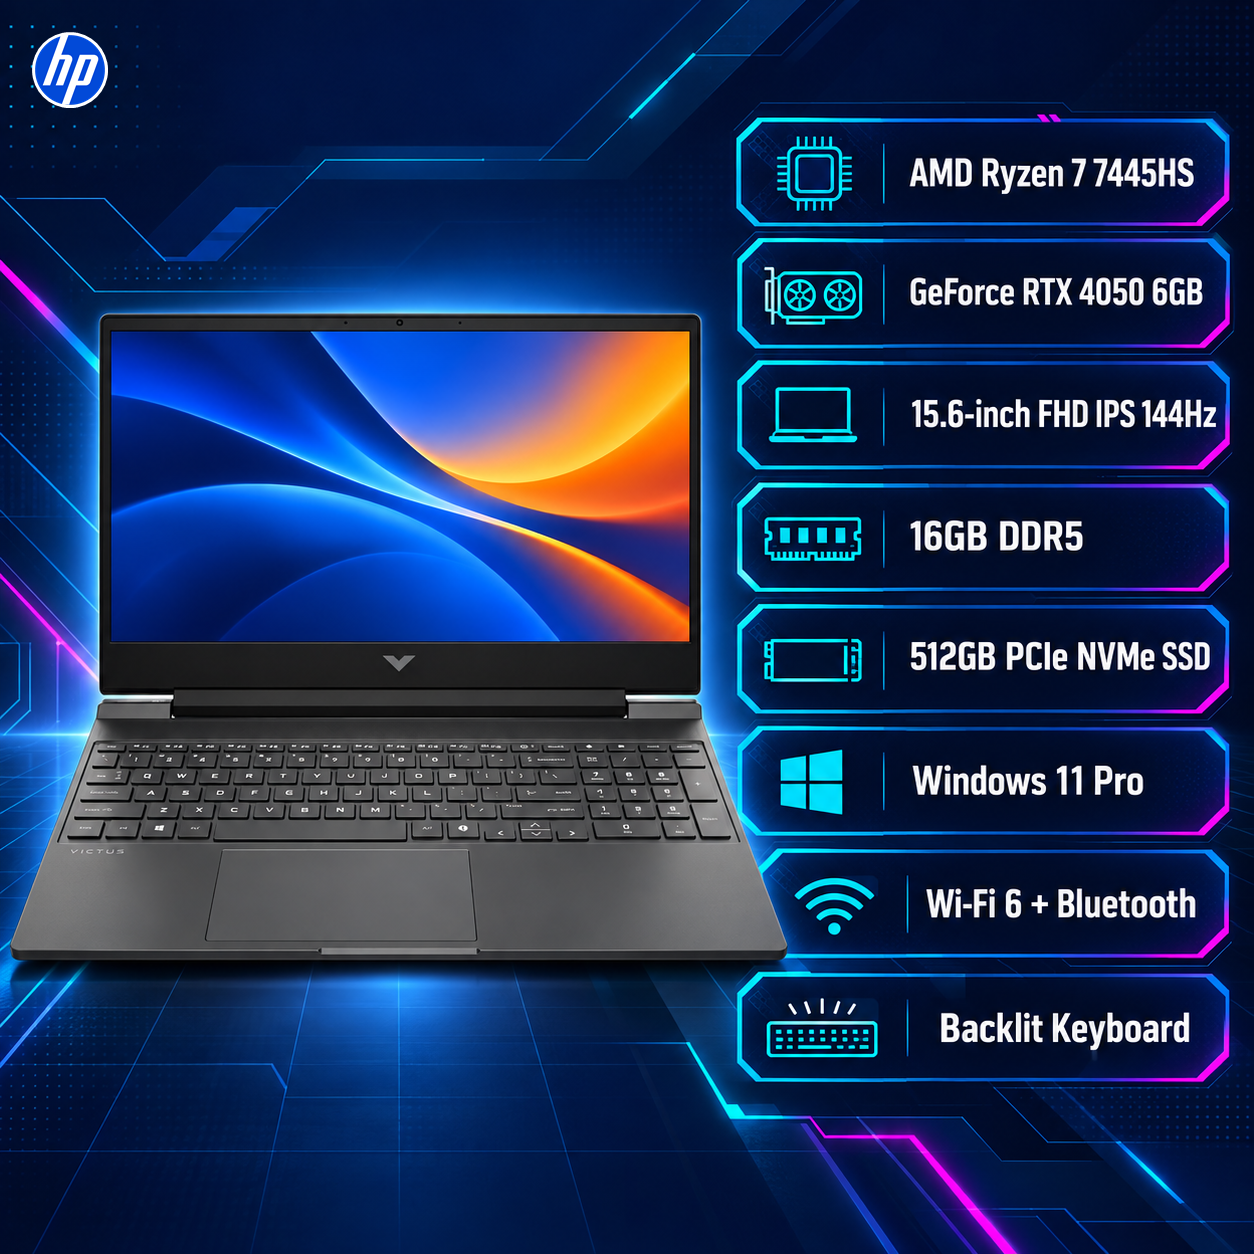
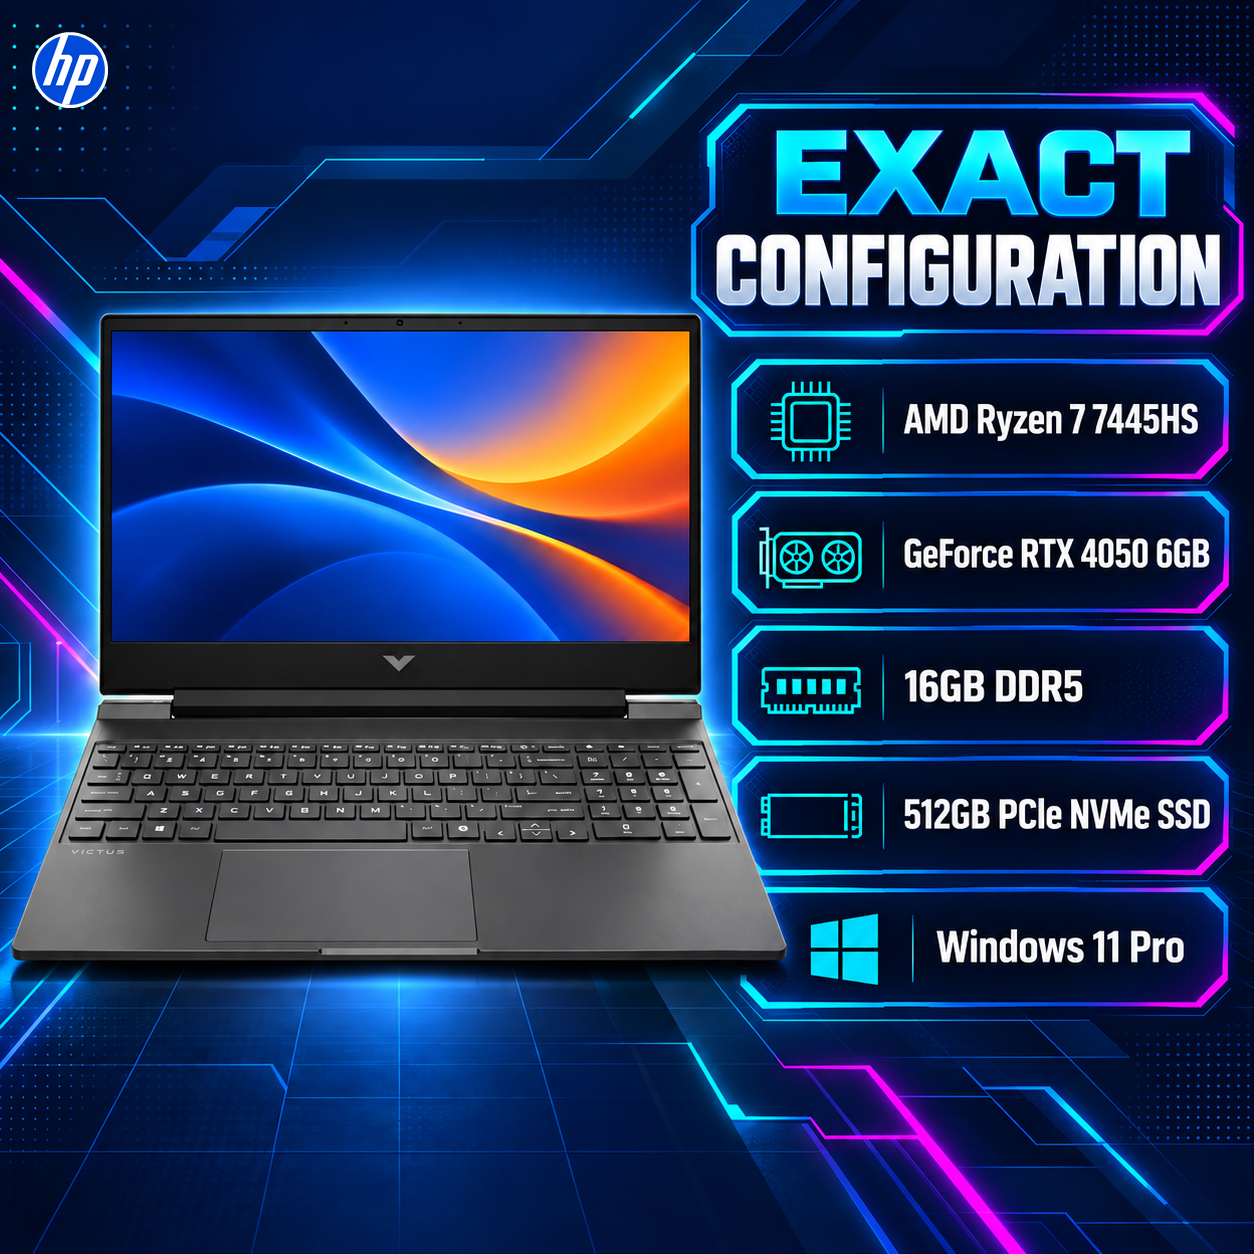
fix: replace duplicate VL-1221 gallery images

diff --git a/SKILL.md b/SKILL.md
@@ -14,7 +14,7 @@ description: "Run the MegaPC Amazon Custom PC workflow for complete listing prod
 - 独立的产品图片规划、制作、检查或 GitHub 交付任务，先执行 [references/final-image-delivery-contract.md](references/final-image-delivery-contract.md) 判定是成品交付还是用户明确要求的概念设计，再执行 [references/amazon-product-image-workflow.md](references/amazon-product-image-workflow.md)，并同时遵守 [references/image-spec.md](references/image-spec.md)、可选的 [references/image-style-profiles.md](references/image-style-profiles.md)、[references/conversion-hero-styles.md](references/conversion-hero-styles.md)、[references/hero-composition-variants.md](references/hero-composition-variants.md)、Gaming 产品专用的 [references/gaming-hero-styles.md](references/gaming-hero-styles.md) 和 [references/gaming-core-badge-styles.md](references/gaming-core-badge-styles.md)，Business/Work 产品专用的 [references/business-work-hero-styles.md](references/business-work-hero-styles.md)，Business laptop 完整图库专用的 [references/business-laptop-gallery-styles.md](references/business-laptop-gallery-styles.md)，以及 PT02–PT08 使用的 [references/supporting-gallery-styles.md](references/supporting-gallery-styles.md)。Conversion Hero 规则负责 PT01；Gaming 延伸为 GG01–GG06，Business 延伸为 BG01–BG11。图片任务不修改 Listing Excel，除非用户另行明确要求。
 - 每个产品固定交付三份主图供人工选择：`MAIN-STRICT` 严格遵守 Amazon 纯白背景、仅产品、无新增文字/Logo/package；`MAIN-ENHANCED-FRONT-CANDIDATE` 使用正面酷炫构图；`MAIN-ENHANCED-THREE-QUARTER-CANDIDATE` 使用准确三分之四侧向构图。两个增强版都必须确定性合成仓库固定素材 [`assets/branding/windows-11-pro-package.png`](assets/branding/windows-11-pro-package.png)。版面拥挤时减少次要信息、扩大留白或重构对应构图，不能省略 package。PT01 不放 Windows package、Windows 文字卡或占位图。
 - 每个 `product generated photo/VL-XXXX/` 固定包含恰好 11 张最终图片：上述 3 张 MAIN 选择版和 `PT01`–`PT08`。Manifest、Logo placement 和其他生产记录不计入 11 张图片。用户要求更新某个现有 `VL-XXXX` 时，在内部复核完成后替换该 canonical folder 的同槽文件，不把 review 目录当作 GitHub 最终交付。
-- PT01–PT08 必须在生成前完成跨图信息归属，在生成后完成 OCR/语义去重；每张图回答不同的购买问题。PT03 是完整销售配置的唯一主槽，PT05 只解释性能关系而不重列完整型号/容量，PT07 使用尚未解释且有证据的独立购买价值，禁止再作为规格回顾页。详细归属和失败阈值见 [references/supporting-gallery-styles.md](references/supporting-gallery-styles.md)。
+- `UNIVERSAL_GALLERY_DEDUP_RULE` 对所有电脑和所有 `audience_style_family` 强制生效，包括 `GAMING`、`BUSINESS_WORK`、`STUDENT_STUDY`、`GENERAL`、`HYBRID_MANUAL_REVIEW` 及未来新增分类；任何 style profile、hero family 或 continuation pack 都不得覆盖。PT01–PT08 必须在生成前完成跨图信息归属，在生成后完成 OCR/语义去重；每张图回答不同的购买问题。PT03 是完整销售配置的唯一主槽，PT05 只解释性能关系而不重列完整型号/容量，PT07 使用尚未解释且有证据的独立购买价值，禁止再作为规格回顾页。详细归属和失败阈值见 [references/supporting-gallery-styles.md](references/supporting-gallery-styles.md)。
 - 图片请求中的“生成/制作/给我审核”默认交付完成文件，不交底稿、prompt、production brief、空模板或缺少后处理的候选。`CANDIDATE` 只表示已完成主图之间等待选择。完整图库若在 preflight 发现关键事实或素材不足，应先阻断并说明，不得用 `TO PRODUCE`/`TO SOURCE` 的缺图集合冒充成品。
 - MegaPC / J-Tech Digital 已确认其目录内销售的各 OEM 品牌均具有适用于商品销售与图片制作的经销商、合作伙伴或书面品牌素材授权。按 [`references/brand-authorization-policy.md`](references/brand-authorization-policy.md) 记录为 `USER_CONFIRMED_CATALOG_WIDE`；常规 OEM 产品图片与正确 OEM Logo 不得再仅因公开网页未展示授权证明而阻断。仍须核验品牌与准确机型匹配、使用官方/品牌提供的原始资产、遵守 Logo 规范，并对游戏、软件、人物及其他第三方 IP 另行执行授权闸门。
 

diff --git a/product generated photo/VL-1221/image-manifest.md b/product generated photo/VL-1221/image-manifest.md
@@ -4,9 +4,10 @@
 
 - `delivery_mode`: `FINAL_ASSET_DELIVERY`
 - `workflow_invocation_mode`: `IMAGE_ONLY_WORKFLOW`
-- `delivery_state`: `REWORK_REQUIRED`
+- `delivery_state`: `FINAL_ASSET_QA_PASS`
 - `candidate_semantics`: `COMPLETED_SELECTION_OPTION_NOT_DRAFT`
 - `final_image_count`: `11` (`3 MAIN + PT01-PT08`)
+- `universal_gallery_dedup_rule`: `PASS`
 - Product: HP Victus Gaming Laptop 15, 15.6-inch, black / Mica Silver chassis family
 - ERP source: `https://erp-git-feat-part-serial-numbers-overhaul-jtechdigital.vercel.app/products/31221`
 - Internal model: `VL-1221`
@@ -36,9 +37,9 @@
 | PT02 | `PT02.png` | Play/create/stream use case | Lower left | VERIFIED |
 | PT03 | `PT03.png` | Sole full core-system configuration grid | Upper left | VERIFIED; PRIMARY_CONFIGURATION_OWNER |
 | PT04 | `PT04.png` | Victus chassis and design | Lower right | VERIFIED |
-| PT05 | `PT05.png` | CPU → GPU → display pipeline | Upper left | REWORK_REQUIRED; repeats exact CPU/GPU/display facts from PT03 |
+| PT05 | `PT05.png` | Category-level Processing → Graphics → High-Refresh Display relationship | Upper left | VERIFIED; no full models or capacities repeated |
 | PT06 | `PT06.png` | What's included | Upper right | VERIFIED |
-| PT07 | `PT07.png` | Legacy light specification recap | Upper right | REWORK_REQUIRED; duplicates PT03 core configuration |
+| PT07 | `PT07.png` | MegaPC customization: memory options, storage options and upgrade service | Upper right | VERIFIED; DISTINCT_VALUE_OWNER |
 | PT08 | `PT08.png` | Connectivity overview | Lower right | VERIFIED |
 
 ## QA record
@@ -48,6 +49,6 @@
 - Both enhanced MAIN choices contain complete core information, real layered Gaming frame-break treatment and the fixed Windows 11 Pro package.
 - PT01 contains no Windows package; PT01–PT08 all contain the verified HP OEM Logo applied through deterministic compositing.
 - Product identity, configuration text, 1:1 dimensions, legibility and cross-slot style consistency were reviewed.
-- Cross-gallery duplicate QA: `FAIL`. PT03 correctly owns the complete configuration, but PT05 repeats the exact CPU/GPU/display details and PT07 repeats the same core configuration as a second recap. PT05 must be regenerated as a category-level performance relationship without full models/capacities; PT07 must be regenerated as one unused verified value or a restrained product scene.
-- Until PT05 and PT07 are replaced and pairwise semantic overlap is at or below 20%, this gallery must remain `REWORK_REQUIRED` and cannot be used as a compliant reference set for future generation.
+- Cross-gallery duplicate QA: `PASS`. PT03 is the sole complete-configuration owner; PT05 uses only category-level relationship labels and contains no full CPU/GPU models or RAM/SSD capacities; PT07 contributes a separate MegaPC customization/upgrade value and contains no core-spec recap.
+- Pairwise primary-information overlap for PT03/PT05/PT07 is below the universal 20% failure threshold. The set may be used as a compliant reference only together with `UNIVERSAL_GALLERY_DEDUP_RULE`; its Gaming visual treatment is not universal.
 - Enhanced MAIN production completion does not equal Amazon MAIN approval; account/category exception evidence and human approval remain required before selecting either enhanced file as the live MAIN.

diff --git a/references/amazon-product-image-workflow.md b/references/amazon-product-image-workflow.md
@@ -8,7 +8,7 @@
 - `IMAGE_ONLY_WORKFLOW`：用户只要求生成整套图片时，直接锁定一个明确的 ERP 产品、`VL-XXXX` 或准确 SKU，完成 3 MAIN + PT01–PT08，不修改 Listing 文案或 Excel。
 - `IMAGE_ADJUSTMENT_WORKFLOW`：用户只要求修改一张或多张现有图片时，只读取相关槽位、共同风格和必要产品事实；未被点名的 Listing 输出保持不变。
 
-三种模式遵守同一事实、版权、品牌和 QA 闸门。独立调用减少无关工作，不降低图片准确性，也不授权猜测缺失机型素材。
+三种模式遵守同一事实、版权、品牌和 QA 闸门。`UNIVERSAL_GALLERY_DEDUP_RULE` 在三种模式以及所有 PC 受众分类中始终启用；不能因为 Gaming、Business、Student、General 或 Hybrid 风格不同而跳过或放宽。独立调用减少无关工作，不降低图片准确性，也不授权猜测缺失机型素材。
 
 OEM 品牌授权按 [`brand-authorization-policy.md`](brand-authorization-policy.md) 执行。MegaPC / J-Tech Digital 已直接确认目录内销售品牌具有相应经销商、合作伙伴或书面品牌素材授权，因此常规 OEM 图片与 Logo 使用记录为 `USER_CONFIRMED_CATALOG_WIDE`，不得仅因公开网页没有展示其私有授权文件而阻断；仍须确保资产来自正确品牌且与准确机型匹配。
 

diff --git a/references/final-image-delivery-contract.md b/references/final-image-delivery-contract.md
@@ -28,7 +28,7 @@
 - `TO SOURCE`、`TO PRODUCE`、placeholder、低清预览或只供内部合成的无品牌母版；
 - contact sheet 代替单张完整图片。Contact sheet 只能作为额外审核入口。
 
-PT01–PT08 还必须通过跨图信息独立性检查。准确但重复的规格页不算新的完成槽位：PT03 负责完整销售配置，PT05 负责不重复完整型号/容量的性能关系，PT07 必须提供尚未解释的独立购买价值。只改标题、图标、颜色或布局而继续表达同一组信息，仍视为重复并阻断 `FINAL_ASSET_QA_PASS`。
+PT01–PT08 还必须通过 `UNIVERSAL_GALLERY_DEDUP_RULE` 的跨图信息独立性检查。该规则不区分 Gaming、Business、Student、General 或其他电脑类型。准确但重复的规格页不算新的完成槽位：PT03 负责完整销售配置，PT05 负责不重复完整型号/容量的性能关系，PT07 必须提供尚未解释的独立购买价值。只改标题、图标、颜色或布局而继续表达同一组信息，仍视为重复并阻断 `FINAL_ASSET_QA_PASS`。
 
 内部可以保留 mask、无品牌母版、透明环境层和中间文件，但它们必须放在内部生产目录，不能当作最终交付，也不能因为这些文件存在就声称任务完成。
 

diff --git a/references/image-spec.md b/references/image-spec.md
@@ -210,6 +210,8 @@ human approval are recorded.
 | **8** | `PT07` | Distinct unaddressed value | White or light + continuation accents | One verified theme not already owned by PT01–PT06; never a specification recap or reordered core-spec card set; use a restrained product scene if no additional claims are available |
 | **9** | `PT08` | Connectivity | White/light + continuation ecosystem | Verified rear/side ports and connectivity remain primary; contextual peripherals may not imply inclusion |
 
+`UNIVERSAL_GALLERY_DEDUP_RULE` applies to this slot map for every PC type and every audience/style family. Gaming, Business/Work, Student/Study, General, Hybrid and future profiles may change visual treatment only; they may not move full-configuration ownership away from PT03, turn PT05 into another configuration page, turn PT07 into a specification recap, or bypass the pairwise overlap gate.
+
 Reserve three-quarter views and multiple angles for PT images. Every displayed
 RAM or SSD option must be genuinely offered for the listing. Use a brief factual
 footer such as `Configuration varies by selected option` when several selectable

diff --git a/references/supporting-gallery-styles.md b/references/supporting-gallery-styles.md
@@ -56,6 +56,8 @@ identity_ip_review: PASS|BLOCKED
 
 ### 全图库信息归属与去重闸门
 
+本节是 `UNIVERSAL_GALLERY_DEDUP_RULE`，适用于 Gaming、Business/Work、Student/Study、General、Hybrid 以及未来新增的所有 PC 分类。受众判断只决定场景、人物、色彩、语气和视觉 treatment；不能改变下表的信息主槽、禁止重复项、20% 阈值或失败处置。本文和其他文件中的任何 style/pack 示例若与本节冲突，一律以本节为准。
+
 生成任何 PT 图片前，先在 manifest 建立 `Gallery Content Ownership Matrix`。每个客户可见事实或卖点只能有一个 `PRIMARY OWNER`；其他槽位可以承接视觉语言，但不能把同一组事实换标题、换图标或换卡片后再次呈现。
 
 | 内容 | 默认主槽 | 其他槽位规则 |

diff --git a/product generated photo/image-manifest-template.md b/product generated photo/image-manifest-template.md
@@ -7,6 +7,7 @@
 - `delivery_state`: `<BLOCKED_BEFORE_PRODUCTION | IN_PRODUCTION | REWORK_REQUIRED | FINAL_ASSET_QA_PASS>`
 - `candidate_semantics`: `COMPLETED_SELECTION_OPTION_NOT_DRAFT`
 - `final_image_count`: `11` (`3 MAIN + PT01-PT08`; production records excluded)
+- `universal_gallery_dedup_rule`: `<REQUIRED | PASS | FAIL>` (mandatory for every PC audience/style family)
 - Internal model: `VL-<internal-model>`
 - Exact sold product: `<brand, model, form factor, color>`
 - Exact configuration / selectable tiers: `<verified values>`
